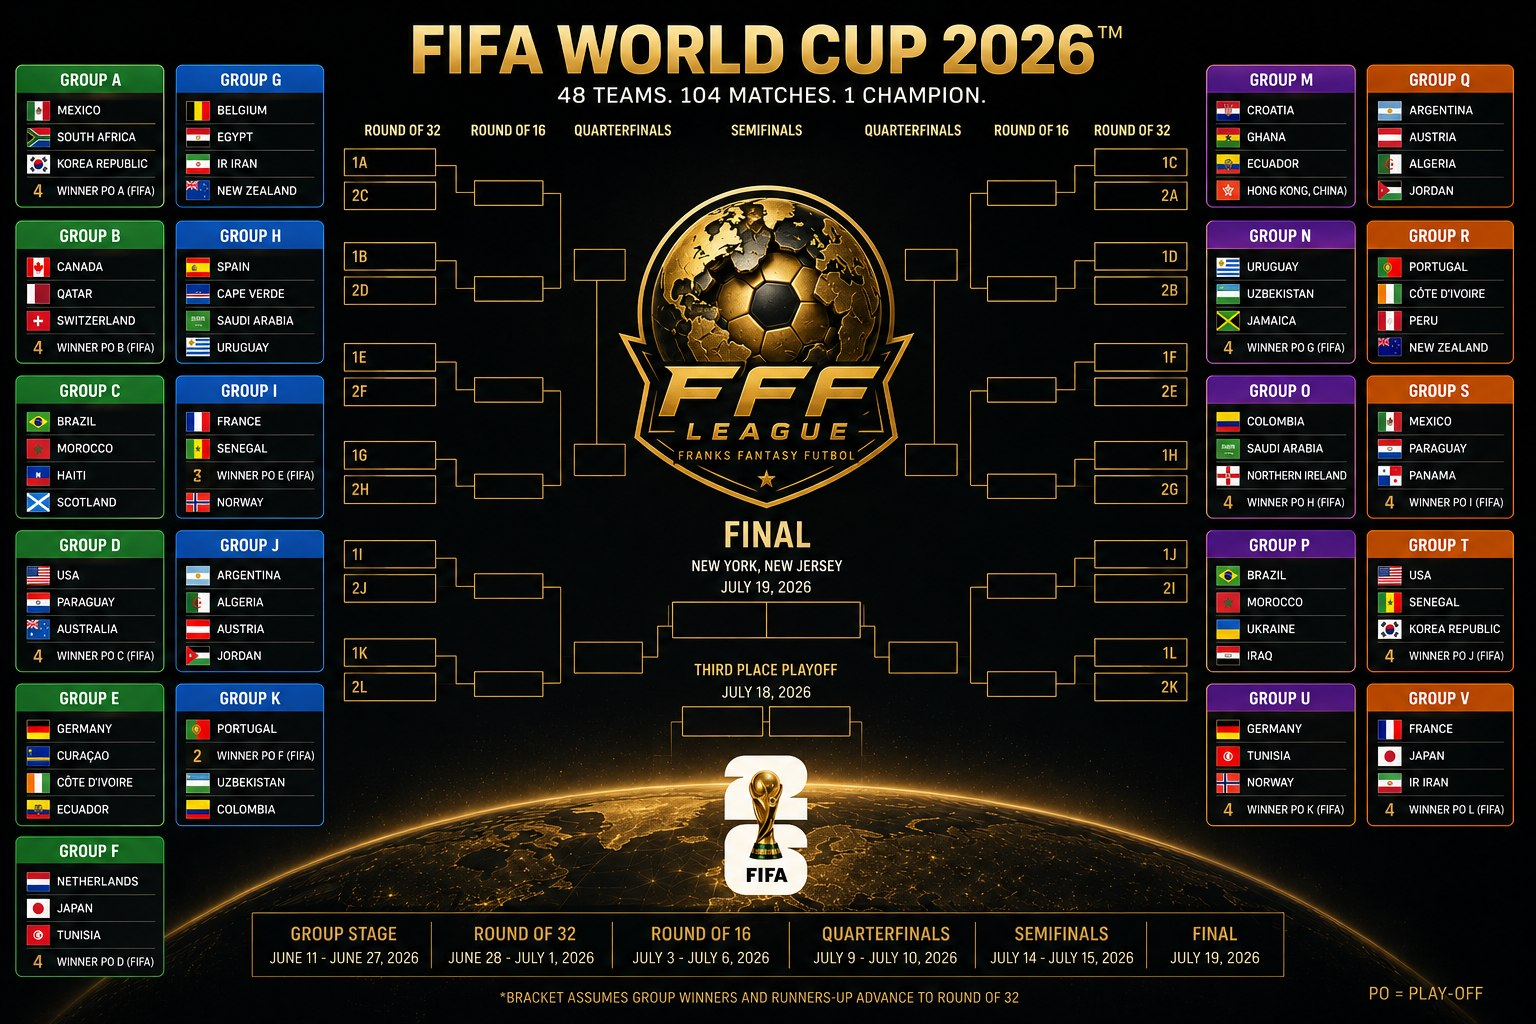
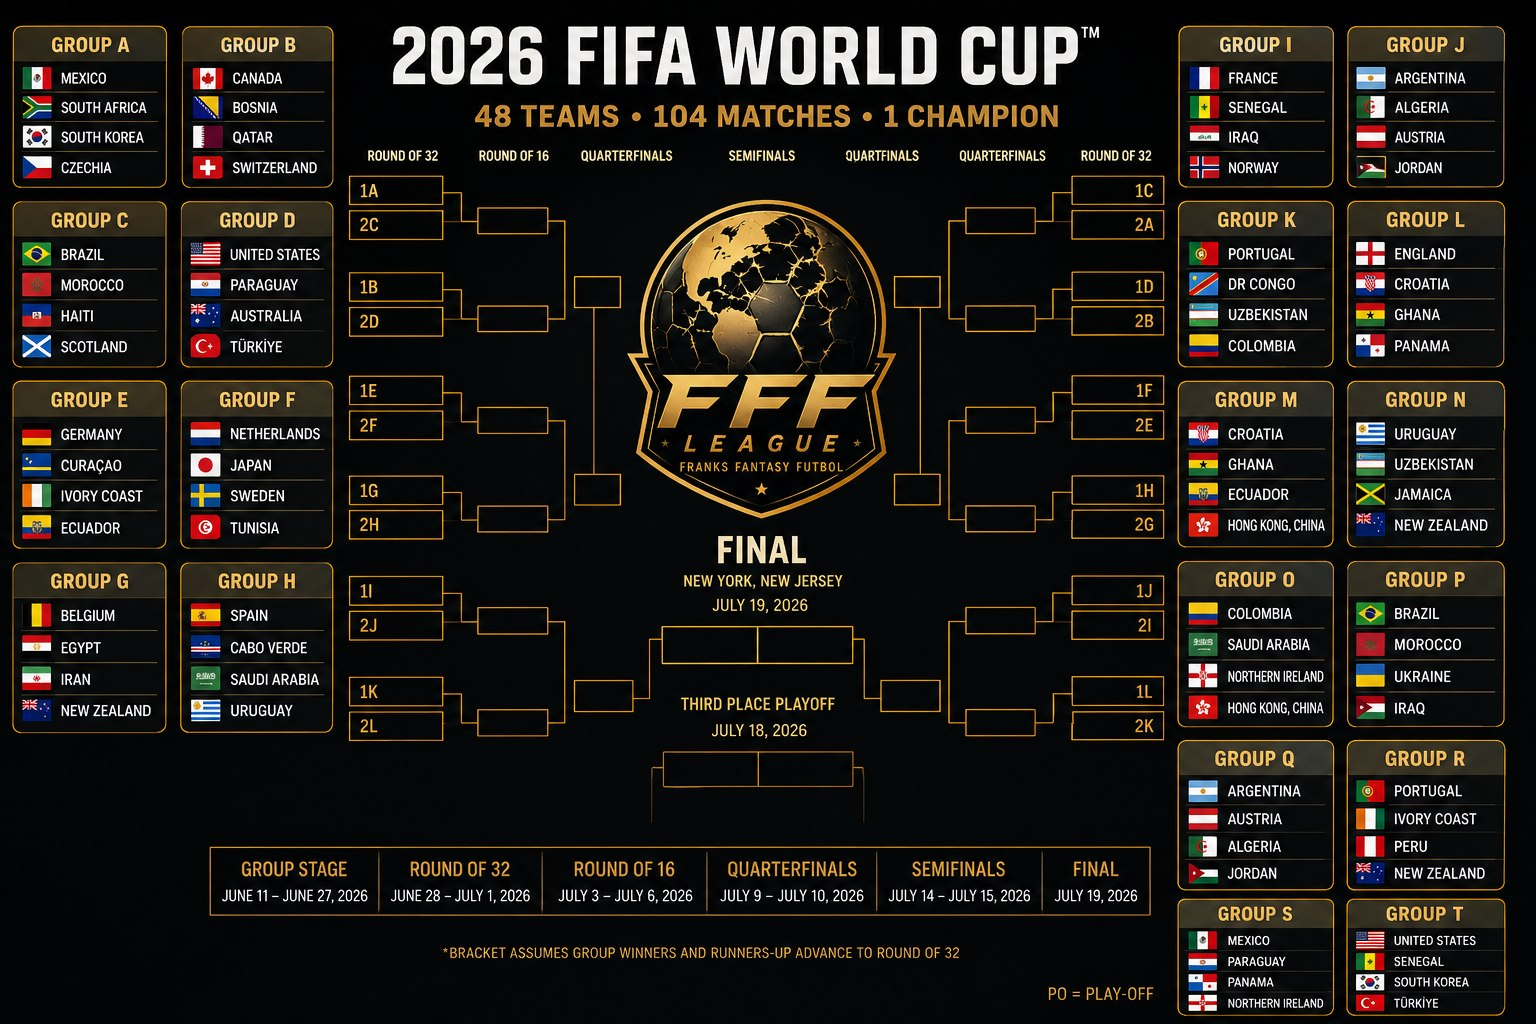
Split Home (bracket + tagline) from /leaderboard; updated bracket image

diff --git a/app/page.tsx b/app/page.tsx
@@ -1,114 +1,40 @@
-import Link from 'next/link';
-import { supabase } from '@/lib/supabase';
-import { loadLeaderboard } from '@/lib/scoring';
-
-export const revalidate = 60;
-
-export default async function HomePage() {
-  const rows = await loadLeaderboard(supabase);
-
-  const { count: picksCount } = await supabase
-    .from('picks')
-    .select('id', { count: 'exact', head: true });
-  const preDraft = (picksCount ?? 0) === 0;
-
+export default function HomePage() {
   return (
     <div>
       {/* ============ HERO ============ */}
-      <div className="mb-8 flex items-center gap-5">
-        <img src="/logo.png" alt="FFF League" className="hidden sm:block h-24 w-24" />
+      <div className="mb-8 flex flex-col sm:flex-row items-center gap-5 text-center sm:text-left">
+        <img src="/logo.png" alt="FFF League" className="h-28 w-28 sm:h-32 sm:w-32" />
         <div>
-          <h1 className="text-3xl sm:text-5xl font-bold gold-bright tracking-tight">Frank&apos;s Fantasy Fútbol</h1>
-          <p className="text-sm sm:text-base text-[color:var(--text-dim)] mt-1">
-            12 owners. 48 teams. 1 World Cup. Champion crowned July 19, 2026.
+          <h1 className="text-4xl sm:text-6xl font-extrabold gold-bright tracking-tight leading-none">
+            Frank&apos;s Fantasy Fútbol
+          </h1>
+          <p className="text-sm sm:text-base text-[color:var(--text-dim)] mt-2 uppercase tracking-widest">
+            12 owners • 48 teams • 1 World Cup
           </p>
         </div>
       </div>
 
       {/* ============ BRACKET ============ */}
-      <div className="rounded-2xl border border-line bg-card overflow-hidden mb-8 shadow-2xl">
+      <div className="rounded-2xl border border-line bg-card overflow-hidden mb-10 shadow-2xl">
         <img
           src="/bracket-2026.jpg"
-          alt="FIFA World Cup 2026 Bracket — 48 teams, 104 matches, 1 champion"
+          alt="2026 FIFA World Cup Bracket — 48 teams, 104 matches, 1 champion"
           className="w-full h-auto block"
         />
       </div>
 
       {/* ============ TAGLINE ============ */}
-      <div className="my-10 sm:my-14 text-center">
-        <p className="text-3xl sm:text-5xl lg:text-6xl font-extrabold tracking-tight leading-tight">
+      <div className="my-12 sm:my-20 text-center">
+        <p className="text-4xl sm:text-6xl lg:text-7xl font-extrabold tracking-tight leading-tight">
           <span className="text-white">Financial Freedom is One </span>
           <span className="gold-bright">GOAL</span>
           <span className="text-white"> Away!</span>
         </p>
-        <div className="mt-4 mx-auto h-px w-24 bg-[color:var(--gold)] opacity-60" />
+        <div className="mt-6 mx-auto h-px w-32 bg-[color:var(--gold)] opacity-60" />
+        <p className="mt-6 text-xs sm:text-sm text-[color:var(--text-dim)] uppercase tracking-[0.3em]">
+          Champion crowned · July 19, 2026 · New York / New Jersey
+        </p>
       </div>
-
-      {/* ============ LEADERBOARD ============ */}
-      <div className="mb-5 flex items-end justify-between">
-        <div>
-          <h2 className="text-2xl sm:text-3xl font-bold">Leaderboard</h2>
-          <p className="text-xs text-[color:var(--text-dim)] mt-1">
-            Updates every 15 min on match days. Ties broken by total goals.
-          </p>
-        </div>
-        <Link href="/teams" className="text-xs gold hover:gold-bright">
-          The 48 →
-        </Link>
-      </div>
-
-      {preDraft && rows.length > 0 && (
-        <div className="rounded-xl border border-[color:var(--gold)]/40 bg-[color:var(--gold)]/5 px-4 py-3 mb-5 text-sm">
-          <span className="gold-bright font-semibold">Draft pending.</span>{' '}
-          <span className="text-[color:var(--text-dim)]">
-            {rows.length} of 12 owners signed up. Pick order + teams TBD. World Cup kicks off June 11, 2026.
-          </span>
-        </div>
-      )}
-
-      {rows.length === 0 ? (
-        <EmptyState />
-      ) : (
-        <div className="rounded-xl border border-line bg-card overflow-hidden">
-          <table className="w-full text-sm">
-            <thead className="bg-elev text-[color:var(--text-dim)] uppercase text-xs tracking-wider">
-              <tr>
-                <th className="text-left px-4 py-3 w-12">#</th>
-                <th className="text-left px-4 py-3">Owner</th>
-                <th className="text-right px-4 py-3">Goals</th>
-                <th className="text-right px-4 py-3">Points</th>
-              </tr>
-            </thead>
-            <tbody>
-              {rows.map((r, i) => (
-                <tr key={r.player_id} className="border-t border-line hover:bg-elev transition-colors">
-                  <td className="px-4 py-3 gold">{i + 1}</td>
-                  <td className="px-4 py-3">
-                    <Link href={`/player/${r.slug}`} className="hover:gold-bright font-medium">
-                      {r.name}
-                    </Link>
-                  </td>
-                  <td className="px-4 py-3 text-right text-[color:var(--text-dim)]">{r.goals}</td>
-                  <td className="px-4 py-3 text-right font-bold gold-bright text-base">{r.total}</td>
-                </tr>
-              ))}
-            </tbody>
-          </table>
-        </div>
-      )}
-    </div>
-  );
-}
-
-function EmptyState() {
-  return (
-    <div className="rounded-xl border border-line bg-card p-10 text-center">
-      <p className="text-5xl mb-3">🏆</p>
-      <h2 className="text-xl font-semibold gold-bright">Draft pending</h2>
-      <p className="text-sm text-[color:var(--text-dim)] mt-2 max-w-md mx-auto">
-        Once the 12 owners draft their 4 teams each, the leaderboard fills in here.
-        World Cup kicks off June 11, 2026.
-      </p>
     </div>
   );
 }

diff --git a/app/leaderboard/page.tsx b/app/leaderboard/page.tsx
@@ -1,0 +1,85 @@
+import Link from 'next/link';
+import { supabase } from '@/lib/supabase';
+import { loadLeaderboard } from '@/lib/scoring';
+
+export const revalidate = 60;
+
+export const metadata = {
+  title: 'Leaderboard — FFF League',
+};
+
+export default async function LeaderboardPage() {
+  const rows = await loadLeaderboard(supabase);
+
+  const { count: picksCount } = await supabase
+    .from('picks')
+    .select('id', { count: 'exact', head: true });
+  const preDraft = (picksCount ?? 0) === 0;
+
+  return (
+    <div>
+      <div className="mb-6 flex items-center gap-5">
+        <img src="/logo.png" alt="FFF League" className="hidden sm:block h-24 w-24" />
+        <div>
+          <h1 className="text-3xl sm:text-4xl font-bold">Leaderboard</h1>
+          <p className="text-sm text-[color:var(--text-dim)] mt-1">
+            Updated every 15 min during match days. Ties broken by total goals.
+          </p>
+        </div>
+      </div>
+
+      {preDraft && rows.length > 0 && (
+        <div className="rounded-xl border border-[color:var(--gold)]/40 bg-[color:var(--gold)]/5 px-4 py-3 mb-5 text-sm">
+          <span className="gold-bright font-semibold">Draft pending.</span>{' '}
+          <span className="text-[color:var(--text-dim)]">
+            {rows.length} of 12 owners signed up. Pick order + teams TBD. World Cup kicks off June 11, 2026.
+          </span>
+        </div>
+      )}
+
+      {rows.length === 0 ? (
+        <EmptyState />
+      ) : (
+        <div className="rounded-xl border border-line bg-card overflow-hidden">
+          <table className="w-full text-sm">
+            <thead className="bg-elev text-[color:var(--text-dim)] uppercase text-xs tracking-wider">
+              <tr>
+                <th className="text-left px-4 py-3 w-12">#</th>
+                <th className="text-left px-4 py-3">Owner</th>
+                <th className="text-right px-4 py-3">Goals</th>
+                <th className="text-right px-4 py-3">Points</th>
+              </tr>
+            </thead>
+            <tbody>
+              {rows.map((r, i) => (
+                <tr key={r.player_id} className="border-t border-line hover:bg-elev transition-colors">
+                  <td className="px-4 py-3 gold">{i + 1}</td>
+                  <td className="px-4 py-3">
+                    <Link href={`/player/${r.slug}`} className="hover:gold-bright font-medium">
+                      {r.name}
+                    </Link>
+                  </td>
+                  <td className="px-4 py-3 text-right text-[color:var(--text-dim)]">{r.goals}</td>
+                  <td className="px-4 py-3 text-right font-bold gold-bright text-base">{r.total}</td>
+                </tr>
+              ))}
+            </tbody>
+          </table>
+        </div>
+      )}
+    </div>
+  );
+}
+
+function EmptyState() {
+  return (
+    <div className="rounded-xl border border-line bg-card p-10 text-center">
+      <p className="text-5xl mb-3">🏆</p>
+      <h2 className="text-xl font-semibold gold-bright">Draft pending</h2>
+      <p className="text-sm text-[color:var(--text-dim)] mt-2 max-w-md mx-auto">
+        Once the 12 owners draft their 4 teams each, the leaderboard fills in here.
+        World Cup kicks off June 11, 2026.
+      </p>
+    </div>
+  );
+}

diff --git a/app/layout.tsx b/app/layout.tsx
@@ -21,7 +21,8 @@ export default function RootLayout({ children }: { children: React.ReactNode }) 
               </div>
             </Link>
             <nav className="flex gap-4 text-sm">
-              <Link href="/" className="hover:gold-bright">Leaderboard</Link>
+              <Link href="/" className="hover:gold-bright">Home</Link>
+              <Link href="/leaderboard" className="hover:gold-bright">Leaderboard</Link>
               <Link href="/teams" className="hover:gold-bright">The 48</Link>
               <Link href="/today" className="hover:gold-bright">Today</Link>
               <Link href="/admin" className="hover:gold-bright text-[color:var(--text-dim)]">Admin</Link>
